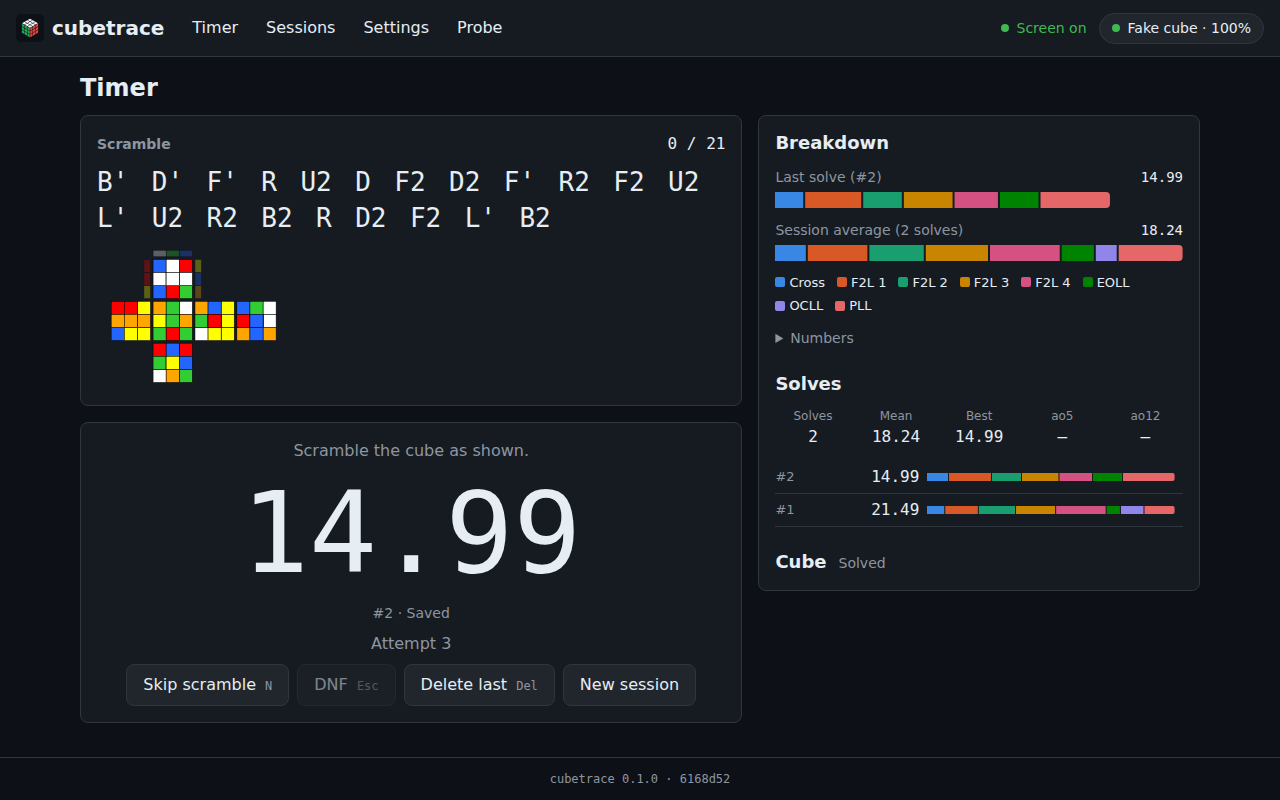
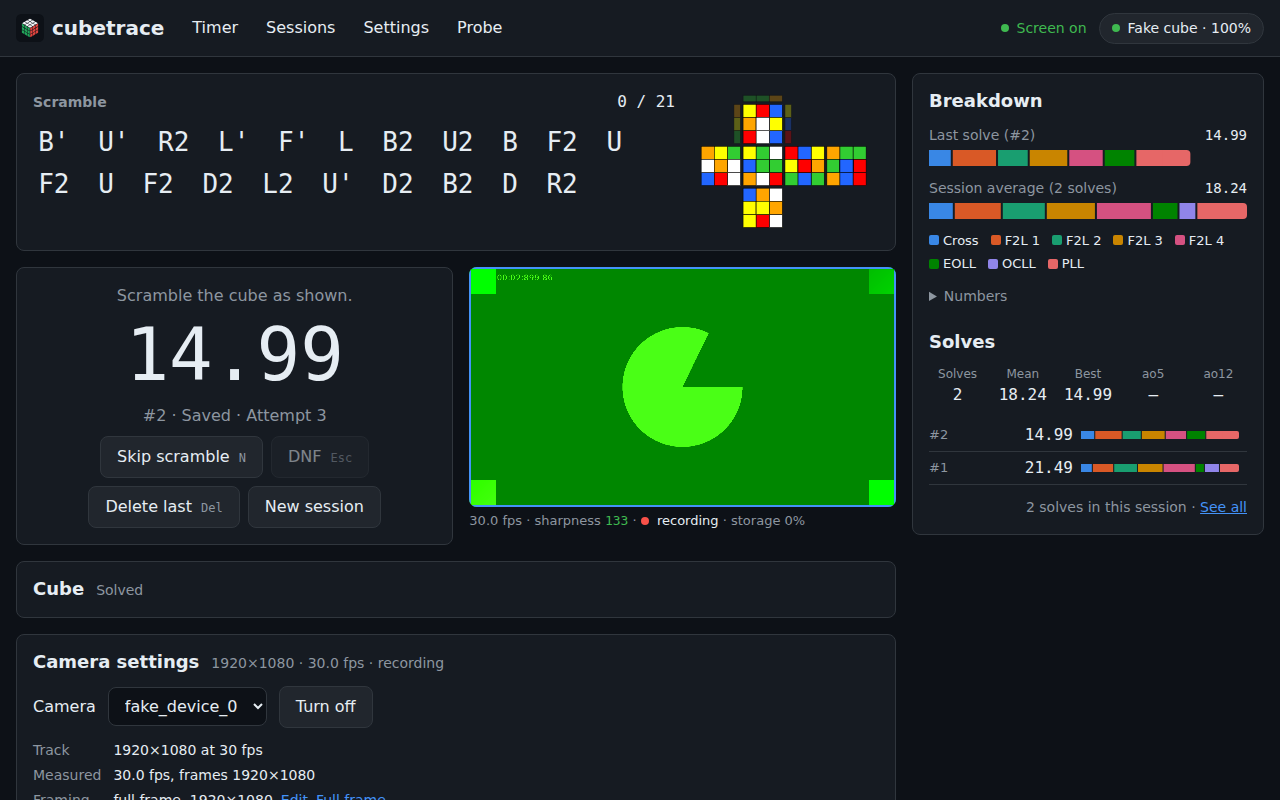
Document the timer layout, the session page and the sharpness cost
CHANGELOG, the T2.7 manual checks, the README's recording paragraph and
its two Timer screenshots (with Chrome's fake camera), and the
measurements in TOOLCHAIN.

Claude-Session: https://claude.ai/code/session_01BvXBPaFB4UMN9hyUmGugdw

diff --git a/docs/TOOLCHAIN.md b/docs/TOOLCHAIN.md
@@ -521,8 +521,10 @@ installation that say nothing about the pictures (the probes in `docs/devices/` 
 for the same reason); the `constraints` of `cameraInfo()` leave the device id out too.
 
 **Sharpness.** The variance of the 4-neighbour Laplacian of the luma (BT.601 weights) of the framing
-rectangle drawn 320 pixels wide into an `OffscreenCanvas` (`willReadFrequently`), every 10th frame of
-the preview. Calibrated on Chromium 141's fake camera on 2026-09-27, over 12 s of frames (24
+rectangle drawn into an `OffscreenCanvas` (`willReadFrequently`): until T2.7, 320 pixels wide on
+every 10th frame of the preview; since, 160 pixels wide at most twice a second and never during a
+solve (see "Timer layout (T2.7)" below, with the numbers at 160). Calibrated on Chromium 141's fake
+camera on 2026-09-27, at 320 pixels wide, over 12 s of frames (24
 measurements each): the whole frame measured 76–135, a centred 1080×1080 square 30–93 and a centred
 half 55–145; the same frames blurred by 1 pixel at 320 wide (a canvas `blur(1px)` filter, about 6
 pixels at 1080p) 1.4–8.7; black frames 0. The default threshold, 20, lies between the two with a
@@ -793,3 +795,73 @@ Camera section's chunk, which the Timer page loads right after it renders and wh
 that loads when a badge is clicked, 10.0 kB (3.4 kB); the Sessions page 8.1 kB (2.5 kB), against 7.6
 (2.4); the storage meter, shared by the Camera section and the Sessions page, 2.3 kB (1.0 kB); the
 chunk of `SessionService` and the store 23.1 kB (6.7 kB), against 20.3.
+
+## Timer layout (T2.7)
+
+Added by T2.7 on 2026-09-27.
+
+**The preview and Camera settings.** The camera's picture beside the time is `CameraPreview`
+(`camera/camera-preview.ts`), a chunk of its own that the Timer page loads right after it renders,
+like Camera settings (`CameraPanel`); the two share `CameraService` and `RecordingService`. The
+preview measures the frames (`watchPreview`); the larger picture of Camera settings, there only while
+the framing is edited (Framing → Edit), is a second `<video>` of the same stream that measures
+nothing, so that a second picture costs nothing the rest of the time. The preview is a box of 16:9,
+15rem (240 px) high once its row is 46rem wide, else the width of the page (a phone); the frames keep
+their proportions inside it through container query units (the box has `container-type: size`, the
+frame is `min(100cqw, 100cqh × aspect)` wide), so the framing rectangle is still drawn in percent of
+the frames. The Timer page's `main` is 80rem wide at most (72rem, `--page-max`, elsewhere), by
+`main:has(> app-timer-page)` in the shell's styles, so that the time keeps about 400 px beside the
+preview at 1280 px. Whether Camera settings are open is a setting (`cameraSettingsOpen`: null until
+they are first opened or closed; the first time the camera is on they open by themselves).
+
+**The sharpness meter's cost.** Measured on 2026-09-27 in headless Chromium (software canvas) on the
+fake camera at 1080p30, over three runs of 15 s: drawing a frame's rectangle and reading it back took
+11.3 to 12.2 ms at 160 pixels wide (the runs' medians of each frame's first draw; 25 ms at most)
+against 12.3 to 16.3 ms at 320 (23 at most): reading the frame back dominates, not the size of the
+picture.
+What takes the meter out of the solve's timing is when it measures: at most twice a second
+(`SharpnessSchedule`, on the camera's clock; it was three times a second at 30 fps and six at 60),
+and never while an attempt is armed or solving, which the Camera preview tells `watchPreview`: the
+first move of the solve starts its time and the last one ends it. With the camera on and recording,
+over eight replays at speed 20 no long animation frame (over 50 ms) fell while an attempt was armed
+or solving (one did, 52 ms, on `main` at 220cc02); in the recording e2e the medians of four replays
+with and without the camera differed by −0.3 to 3.1 ms over four runs, single replays with the camera
+on taking 1,059.8 to 1,124.7 ms against 1,070.0 to 1,070.3 off: what spread remains is not the
+meter's.
+
+At 160 pixels wide the fake camera measures (four runs of 12 to 15 s) 78–198 on the whole frame,
+88–279 on a centred half and 48–183 on a centred 1080×1080 square, and 2.5–17 blurred by 1 pixel (a
+canvas `blur(1px)`, about 12 pixels at 1080p), so the default threshold stays 20. A smaller blur tells
+less at this width: blurred by 1 pixel at 320 wide (about 6 at 1080p), then averaged 2 by 2 down to
+160 (a canvas ignores a blur under a pixel), the same frames measure 19–57 on the whole frame, 19–81 on
+the half and 9–44 on the square, often above 20 yet under the sharp frames of the same rectangle (at
+320 wide they measured 1.2–8.8). The owner's round sets the threshold per camera, with the cube in its
+rectangle.
+
+**The phone.** For the scramble, the time and the preview to fit a phone's screen together: the
+scramble's picture floats beside the heading and the first lines of the moves (7rem wide, 12rem from
+a 32rem-wide scramble), whose lines are closer (1.45) where the scramble is narrow; the result and the
+attempt's number share a line under the time; the time's buttons are smaller where it is narrower
+than 24rem; the sections are 12 px apart and inside under 60rem (16 from there); and the Timer page's
+`h1` is visually hidden, the navigation saying where the page is. Measured with the demo cube and the
+fake camera, without the banner about Web Bluetooth (which Chrome on the phone does not show): at
+390×844 the preview's picture ends at 764 px and its line at 787; at 412×818 (the ThinkPhone in
+Chrome with its address bar) at 784 and 808; at 360×780 the picture ends at 739 and its line, on two
+lines there, at 782. At 1280×800 the preview ends at 507 (530 with its line) and the time's section
+at 545. Headless Chromium's banner about Web Bluetooth adds 44 px at 1280 and 85 px at 390, where the
+e2e dismisses it.
+
+**E2E.** `apps/web/e2e/timer-layout.spec.ts` checks the layout with bounding boxes, at 1280×800 after
+15 replays of the demo at speed 20 (about 37 s) and at 390×844 (the banner dismissed) and 320 px wide.
+Recording is off in that file (an init script deletes `MediaStreamTrackProcessor`, so the app says it
+cannot record): it then encodes no video beside `recording.spec.ts` and `capture.spec.ts`, which count
+the frames lost and run in the other worker.
+
+**Sizes** (`ng build`, 2026-09-27, against `main` at 220cc02): the initial bundle is 264.46 kB raw,
+72.51 kB transferred (264.26 and 72.48): `main` grew by 203 bytes, the route of the session's page and
+the shell's rule for the Timer page's width. The Timer page's chunk is 28.2 kB raw, 8.7 kB gzipped
+(34.1 and 10.4): the solve list is now in a chunk it shares with the session's page, 9.1 kB (3.5 kB).
+The camera's code that the Timer page loads right after it renders is Camera settings, 25.2 kB (7.9
+kB), the preview, 6.1 kB (2.4 kB), and `CameraService` with `RecordingService`, which they share, 21.0
+kB (6.9 kB), against one chunk of 42.2 kB (13.2 kB). The session's page, new, is 9.1 kB (3.3 kB); the
+Sessions page 8.3 kB (2.8 kB), against 8.1 (2.8).

diff --git a/README.md b/README.md
@@ -49,20 +49,25 @@ scramble, the solve, the time and the breakdown. "Try the demo", next to "Connec
 Timer page, replays a random one at the speed set in Settings. The demo solves are downloaded when a
 demo starts, so demo mode needs the network.
 
-**Recording.** Turn the camera on in the Camera section of the Timer page (below the Cube section;
-choose the camera, frame the cube with the rectangle, and check the sharpness meter). While it is on
-and a session is under way, the app keeps the last 90 s of the camera and the microphone in memory,
+**Recording.** Turn the camera on in Camera settings on the Timer page (below the Cube section;
+choose the camera, frame the cube with the rectangle under Framing → Edit, and check the sharpness
+meter). Its picture then stays beside the time (under it on a phone), with the frame rate, the
+sharpness, the recording and the storage in one line under it, so that the cube can be kept in frame
+while scrambling and solving. While the camera is on and a session is under way, the app keeps the
+last 90 s of the camera and the microphone in memory,
 and every attempt gets two clips: its scramble, from 2 s before the first turn to 1 s after the cube
 matches the scramble, and its solve, from 3 s before the first turn to 1 s after the cube is solved
 (a clip begins at a keyframe, up to a second earlier). They are MP4 files, saved about a second after
 their end into the attempt's folder with the time of each frame, and listed in the attempt's record;
-the timing of the attempt never waits for them. The solve list shows a badge on each attempt with
-clips, which opens a viewer: the clip plays next to the attempt's moves by time, the one on screen
-highlighted, and Download saves both clips, their frame times and `attempt.json`. The Camera section
-and the Sessions page show how much of the browser's storage is used: from 80% they warn, and from
-95% the camera stops recording (the timer goes on) until sessions are exported or deleted. Settings
-→ Camera → Record audio turns the microphone off. A clip that could not be saved is said once and
-written in the session's notes.
+the timing of the attempt never waits for them. The Timer page lists the session's last 12 solves;
+"See all" under them, or a session's date on the Sessions page, opens the session's page, with all its
+attempts, its statistics (ao100 too) and the storage its clips take. Each list shows a badge on each
+attempt with clips, which opens a viewer: the clip plays next to the attempt's moves by time, the one
+on screen highlighted, and Download saves both clips, their frame times and `attempt.json`. Camera
+settings and the Sessions page show how much of the browser's storage is used: from 80% they warn,
+and from 95% the camera stops recording (the timer goes on) until sessions are exported or deleted.
+Record audio, in Camera settings and in Settings → Camera, turns the microphone off. A clip that
+could not be saved is said once and written in the session's notes.
 
 **Install it** from Chrome's menu (Install app, or Add to Home screen on Android) or with the
 install button in the address bar on a laptop. The installed app opens offline, and Chrome grants it
@@ -78,16 +83,17 @@ Phase 3 adds cloud storage, so that the sessions of every device end up in one d
 ## Screenshots
 
 Demo mode at real-time speed, taken with Playwright from a production build served as GitHub Pages
-serves it. The timer on a laptop after two solves: the next scramble and its picture, the last time,
-the CFOP breakdown and the solve list.
+serves it, with Chrome's test camera standing in for a real one. The timer on a laptop after two
+solves: the next scramble and its picture, the last time with the camera's picture beside it, the
+CFOP breakdown and the solve list.
 
-![The Timer page on a laptop: a scramble with its picture on the left, the time 14.99 under it with "#2 · Saved" and "Attempt 3", and on the right the CFOP breakdown of the last solve and of the session average, and the solve list with its statistics](docs/screenshots/timer-laptop.png)
+![The Timer page on a laptop: a scramble with its picture at the top left, under it the time 14.99 with "#2 · Saved · Attempt 3" and, beside it, the camera's picture (Chrome's green test pattern) with its frame rate, sharpness, recording and storage under it; on the right the CFOP breakdown of the last solve and of the session average, and the solve list with its statistics and "2 solves in this session · See all"](docs/screenshots/timer-laptop.png)
 
 The same on a phone in portrait, 390 px wide, and the connect dialog in Chrome without the MAC
 address flag, once the cube is chosen:
 
 <p>
-  <img src="docs/screenshots/timer-phone.png" width="260" alt="The Timer page on a phone: scramble, picture, time, breakdown and solves stacked in one column">
+  <img src="docs/screenshots/timer-phone.png" width="260" alt="The Timer page on a phone: the scramble with its picture, the time, and the camera's picture under it, in one screen">
   <img src="docs/screenshots/connect-dialog.png" width="400" alt="The connect dialog asking for the cube's MAC address, with an address typed, Connect and Cancel, and under it, unfolded, the flag that lets Chrome read the address: its address with a Copy button and the three steps to enable it">
 </p>
 

diff --git a/docs/MANUAL-TESTS.md b/docs/MANUAL-TESTS.md
@@ -273,3 +273,39 @@ clips of the timer.
   Turn on): the Recording part says "A clip could not be saved…" once, Chrome's console (on the
   phone, `chrome://inspect`) has one line `cubetrace: clip failed: scramble of attempt N: …`, and the
   session's export has that line in `notes`; the attempt itself is saved as usual.
+
+## T2.7 — layout
+
+On https://shermam.github.io/cubetrace/, Timer page, with a cube connected and the camera on, on
+the MacBook (Chrome at the size its window opens with, not full screen) and on the ThinkPhone
+(Chrome, then the installed app). Since T2.7 the Camera section of the T2.1 and T2.4 items above is
+**Camera settings**, a disclosure below the Cube section: the camera's picture is beside the time
+(under it on the phone), and the framing rectangle is dragged after Framing → Edit. Next to each
+item, write the device, Chrome's version and the window's size (`innerWidth` × `innerHeight` in the
+console, or `chrome://inspect` on the phone).
+
+- [ ] MacBook: the scramble (moves and picture), the time and the camera's preview are all in view
+  together without scrolling, the preview beside the time, about 240 px high, and under it one line:
+  the frame rate (about 30 fps), the sharpness (green when good, amber when soft), "recording" with
+  a red dot during a session ("saving" for a moment after each scramble and solve), and storage in
+  percent.
+- [ ] ThinkPhone in portrait, in Chrome and in the installed app: scramble, time and preview (under
+  the time, the width of the screen) in view together without scrolling, and nothing scrolls
+  sideways. If the bottom of the preview is cut off in Chrome (with its address bar), write down by
+  how much.
+- [ ] The preview stays in view through a whole attempt, the page not moving: scrambling, armed,
+  solving, and after the solve. It shows the framing rectangle; a front camera's preview is mirrored
+  like a mirror.
+- [ ] The sharpness number under the preview stays the same while a solve is under way (it is not
+  measured then, so that no move of the solve waits for it) and changes again after it.
+- [ ] Fifteen solves or more: the Timer page lists the last 12, newest first, with "N solves in this
+  session · See all"; See all opens the session's page with all of them and the same ao12 as the
+  Timer page (ao100 says "–" until the session has 100 attempts).
+- [ ] The session's page: its date, device, cube, camera and clips with their size; a clip badge opens
+  the viewer, which plays the clip and downloads the five files. The same for an older session,
+  opened from the Sessions page (its date is a link). Reload the page: the same. Export saves the
+  session's JSON; Delete… then Delete removes it and goes back to the Sessions page.
+- [ ] Camera settings: closed the first time, until the camera is on; then open by themselves. Closed
+  by hand, they stay closed across a reload, and opened, open. The camera picker, Turn on and off,
+  the resolution, the frame rate, Record audio, the exposure, focus, white balance, zoom and torch
+  (the ThinkPhone), and the framing (Edit, Full frame) are all in them.

diff --git a/docs/CHANGELOG.md b/docs/CHANGELOG.md
@@ -47,6 +47,21 @@ versions follow [Semantic Versioning](https://semver.org/).
 
 ### Changed
 
+- The Timer page keeps the camera in view (T2.7). On a laptop, the camera's picture sits beside the
+  time, under the scramble (whose picture is now beside its moves), so that the scramble, the time and
+  the cube in frame are seen together, with one line under the picture: the frame rate, the sharpness
+  (green when good, amber when soft), what the recording does (idle, recording, saving) and how full
+  storage is. On a phone the picture is under the time, the width of the screen, and the page is
+  tighter so that the three fit. The camera's controls, with the resolution, frame rate and Record
+  audio of Settings, are in Camera settings, a disclosure below the Cube section that opens by itself
+  the first time the camera is on and then stays as it was left; the framing rectangle is moved there,
+  over a larger picture (Framing → Edit). The Timer page lists the last 12 solves, with "N solves in
+  this session · See all", which opens the session's page (`/sessions/<id>`, also from each date on the
+  Sessions page): its date, device, cube and cameras, its statistics with ao100, the storage its clips
+  take, every attempt with the clip viewer and its downloads, Export and Delete; the current session's
+  page follows its attempts as they come. The sharpness meter measures at most twice a second, on the
+  framing rectangle drawn 160 pixels wide (320 before), and not while an attempt is armed or solving,
+  so that drawing a frame never holds back a move of the solve.
 - Clips are muxed and written by a second worker (T2.4), so that saving one never holds up the
   camera's frames in the capture worker, which only cuts; the camera's frames and the microphone's
   sound wait up to a third and half a second for a busy worker instead of being dropped.
